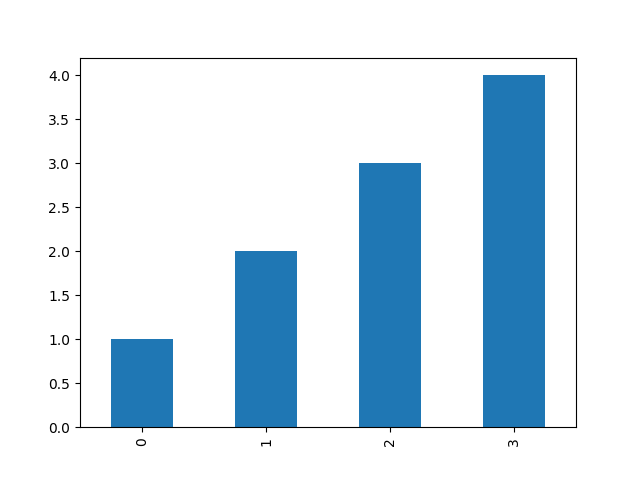
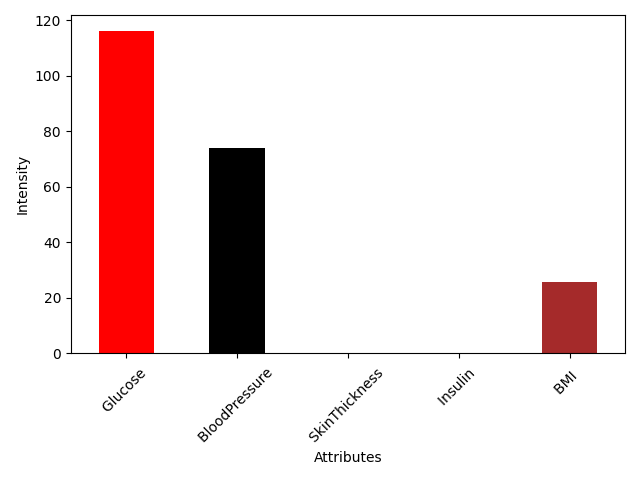
main file changes

diff --git a/index.html b/index.html
@@ -35,8 +35,9 @@
                   <a href="./index.html" class="bg-white-900 text-white rounded-md px-3 py-2.5 text-lg font-bold" aria-current="page">Home</a>
                   <a href="./analytics.html" class="text-white-300 hover:bg-blue-800 hover:text-white rounded-md px-3 py-3 text-base font-medium">Analytics</a>
                   <a href="./aboutus.html" class="text-white-300 hover:bg-blue-800 hover:text-white rounded-md px-3 py-3 text-base font-medium">About us</a>
-                  <a href="./createProfile.html" class="text-white-300 hover:bg-blue-800 hover:text-white rounded-md px-3 py-3 text-base font-medium">Create Profile</a>
+                  <a href="https://docs.google.com/forms/d/e/1FAIpQLSdu2ppS8vyD_ueisgk-h26C4a2ZyInQBfqRXao1qtKeF34e8w/viewform?embedded=true&edit2=2_ABaOnuezcXDPDOPxIItd2AS08jEZ_EKPt6oY8Dm-ne5AIHdeTYq_y1llSzhbkk8W9Q" class="text-white-300 hover:bg-blue-800 hover:text-white rounded-md px-3 py-3 text-base font-medium">Create Profile</a>
                   <a href="./Feedback.html" class="text-white-300 hover:bg-blue-800 hover:text-white rounded-md px-3 py-3 text-base font-medium">Feedback</a>
+                  <a href="profile.html" class="text-white-300 hover:bg-blue-800 hover:text-white rounded-md px-3 py-3 text-base font-medium">Profile</a>
                 </div>
               </div>
             </div>
@@ -45,8 +46,8 @@
       
               <!-- Profile dropdown -->
               <div class="relative mt-3" id="dropdown">
-                <div>
-                  <button type="button" class="relative flex rounded-full bg-black text-sm focus:outline-none focus:ring-2 focus:ring-white focus:ring-offset-2 focus:ring-offset-gray-800" onclick="click()" id="user-menu-button" aria-expanded="false" aria-haspopup="true">
+                <div class="btn" onclick="show()"> 
+                  <button type="button" class="relative flex rounded-full bg-black text-sm focus:outline-none focus:ring-2 focus:ring-white focus:ring-offset-2 focus:ring-offset-gray-800"  id="user-menu-button" aria-expanded="false" aria-haspopup="true">
                     <span class="absolute -inset-1.5"></span>
                     <span class="sr-only">Open user menu</span>
                     <i class="fa-solid fa-user p-3 font-semibold" style="color: #ffffff;"></i>
@@ -63,7 +64,7 @@
                     From: "transform opacity-100 scale-100"
                     To: "transform opacity-0 scale-95"
                 -->
-                <div class="absolute right-0 z-10 mt-2 w-48 origin-top-right rounded-md bg-white py-1 shadow-lg ring-1 ring-black ring-opacity-5 focus:outline-none hidden" role="menu" aria-orientation="vertical" onclick="click()" aria-labelledby="user-menu-button" tabindex="-1" id="ic-log">
+                <div class="absolute right-0 z-10 mt-2 w-48 origin-top-right rounded-md bg-white py-1 shadow-lg ring-1 ring-black ring-opacity-5 focus:outline-none hidden index-100" role="menu" aria-orientation="vertical"  aria-labelledby="user-menu-button" onclick="show()" tabindex="-1" id="ic-log">
                   <!-- Active: "bg-gray-100", Not Active: "" -->
                   <a href="#" class="block px-4 py-2 text-sm text-gray-700" role="menuitem" tabindex="-1" id="user-menu-item-0">Your Profile</a>
                   <a href="#" class="block px-4 py-2 text-sm text-gray-700" role="menuitem" tabindex="-1" id="user-menu-item-1">Settings</a>
@@ -85,6 +86,7 @@
           </div>
         </div>
     </nav>
+    <div id="main"><div id="cursor"></div></div>
     <div class="circle"><p class="circlepara"><span style="margin-left:8rem">"Empowering Health,</span><br><span>Ensuring Safety: Your Lifesaving Medical Data   </span><br><span style="margin-left:8rem">at Your Fingertips."</span></p></div>
     <div class="sec1 relative">
       <div class="flex min-h-full flex-col justify-center px-6 py-12 lg:px-8 signin">
@@ -142,6 +144,7 @@
         In emergency conditions, carrying the files, doing medical tests cost a lot of time, loss of money, and sometimes can compromise the health of the patient.
         <b style="color:green">Medikeeps</b> is the best solution to these problems. You can store all your medical history in just one click, and can save your and other’s lives in emergency situations.</p>
     </div>
+    <div id="logoname"><h1>MediKeeps</h1></div>
     <hr class="h-0.5 line absolute border-0 bg-black">
     <div class="footer"><!-- component -->
       <footer class="relative py-20 flex flex-col items-center justify-center overflow-hidden md:py-25">
@@ -294,8 +297,8 @@
       }
       --></div>
 </body>
-<script src="https://cdnjs.cloudflare.com/ajax/libs/gsap/3.12.5/ScrollTrigger.min.js" integrity="sha512-onMTRKJBKz8M1TnqqDuGBlowlH0ohFzMXYRNebz+yOcc5TQr/zAKsthzhuv0hiyUKEiQEQXEynnXCvNTOk50dg==" crossorigin="anonymous" referrerpolicy="no-referrer"></script>
 <script src="https://cdnjs.cloudflare.com/ajax/libs/gsap/3.12.5/gsap.min.js" integrity="sha512-7eHRwcbYkK4d9g/6tD/mhkf++eoTHwpNM9woBxtPUBWm67zeAfFC+HrdoE2GanKeocly/VxeLvIqwvCdk7qScg==" crossorigin="anonymous" referrerpolicy="no-referrer"></script>
-<script src="https://cdn.tailwindcss.com"></script>
+<script src="https://cdnjs.cloudflare.com/ajax/libs/gsap/3.12.5/ScrollTrigger.min.js" integrity="sha512-onMTRKJBKz8M1TnqqDuGBlowlH0ohFzMXYRNebz+yOcc5TQr/zAKsthzhuv0hiyUKEiQEQXEynnXCvNTOk50dg==" crossorigin="anonymous" referrerpolicy="no-referrer"></script>
 <script src="app.js"></script>
+  <script src="https://cdn.tailwindcss.com"></script>
 </html>

diff --git a/app.js b/app.js
@@ -1,11 +1,53 @@
-gsap.from("#sec_2 h1",{
+
+var cursor = document.querySelector("#cursor");
+var main = document.querySelector("body");
+const logo = document.querySelector(".btn");
+const dropdown = document.querySelector("#ic-log");
+
+
+gsap.from("nav",{
     opacity:0,
-    duration:1,
-    scrollTrigger:{
-        trigger:"#sec_2 h1",
-        scroller:"body",
-        start:"top 60%",
-        end:"bottom top",
-        markers:true,
-    }
+    duration:2
 });
+
+
+main.addEventListener("mousemove",function(dets){
+    gsap.to(cursor,{
+        x:dets.x,
+        y:dets.y,
+        ease:"back.out",
+        duration:1
+    })
+})
+
+gsap.to("#logoname h1",{
+    transform:"translateX(-55%)",
+    scrollTrigger:{
+        trigger:"#logoname",
+        scroller:"body",
+        start:"top 5%",
+        end:"top -100%",
+        scrub:2,
+        pin:true,
+    }
+})
+
+gsap.from(".circle",{
+    opacity:0,
+    y:20
+})
+
+gsap.from(".signin",{
+    opacity:0,
+    y:20
+})
+
+logo.addEventListener("onclick",()=>{
+    gsap.to(dropdown,{
+        opacity:"100"
+    })
+})
+
+function show(){
+    dropdown.style.overflow = "visible";
+};

diff --git a/analytics.html b/analytics.html
@@ -1,1 +1,1 @@
-<html><head><title>Data Display</title><style>h1{color:blue;position:relative;left:35rem;font-size:2rem;}p{font-size:2rem}body{background-color:#BBE2EC;overflow-x:hidden}</style></head><body><h1>Analytics</h1><p>Name: Brian Robinson            </p><img src=my_plot.png></img></body></html>
+<html><head><title>Data Display</title><style>h1{color:blue;position:relative;left:35rem;font-size:2rem;}p{font-size:1.5rem;margin-left:10rem;margin-top:6rem;border:2px solid black;background-color:white;width:20rem;padding-left:2rem;align-items:center;border-radius:1rem}body{background-color:#BBE2EC;overflow-x:hidden}img{margin-left:10rem;margin-top:3rem}div{position:fixed;height:5rem;width:100%;background-color:#BBE2EC}a{font-size:1.2rem;text-decoration:none;color:white;background-color:black;padding:0.35rem;margin-top:1rem;border-radius:1rem;}</style></head><body><div class=margin-left:5rem><a href=./index.html>Home</a></div><h1>Analytics</h1><p>Name: Mrs. Caroline Farrell     </p><img src=my_plot.png></img><h2 style=position:relative;left:15rem;top:2rem;>Keep Your Medical Data Secured with Medikeeps</h2></body></html>

diff --git a/profile.html b/profile.html
@@ -1,0 +1,1 @@
+<html><head><title>Data Display</title><style>h1{color:blue;position:relative;left:35rem;font-size:2rem;}p{padding:1rem;width:15rem;background-color:white;border-radius:1rem;margin-left:5rem;margin-top:3rem}body{background-color:#BBE2EC;overflow-x:hidden}div{padding:2rem;border-radius:1rem;background-color:#40A2E3;display:flex;width:60%;align-items:center;flex-direction:column;position:absolute;left:15%;top:10rem;position:absolute}img{position:absolute;height:6rem;width:6rem;background-color:transparent;border-radius:50%;}</style></head><body><h1>Profile</h1><div><img src=https://media.istockphoto.com/id/1337144146/vector/default-avatar-profile-icon-vector.jpg?s=612x612&w=0&k=20&c=BIbFwuv7FxTWvh5S3vB6bkT0Qv8Vn8N5Ffseq84ClGI= style=left:14rem;top:3.5rem;z-index:99></img><p>Name: ['Sahil Adit']</p> <p>Your Email: ['user@gmail.com']</p> <p>Username: gVeP7</p><p>Street Address: ['Pune']</p></div></body></html>

diff --git a/style.css b/style.css
@@ -113,6 +113,37 @@ footer{
     top:1rem;
     left:22rem;
 }
+#main{
+    height:100%;
+    width:100%;
+
+}
+#cursor{
+    height:20px;
+    width:20px;
+    background-color: white;
+    position: fixed;
+    border-radius: 50%;
+    z-index: 99;
+}
+#logoname{
+    height:55vw;
+    width:100%;
+    background-color: white;
+    position:relative;
+    top:23rem;
+    font-size:50rem;
+    display:flex;
+    justify-content: center;
+    align-items: center;
+}
+#logoname h1{
+    position: relative;
+    left:75rem;
+    top:-2rem;
+    font-weight: 600;
+    color:#40A2E3;
+}
 @media only screen and (max-width:768px){
     nav{
         margin-left:10%;

diff --git a/tempCodeRunnerFile.js b/tempCodeRunnerFile.js
@@ -1,0 +1,4 @@
+gsap.from("nav",{
+    opacity:0,
+    duration:2
+});

diff --git a/analytics.py b/analytics.py
@@ -4,16 +4,21 @@ import matplotlib.pyplot as plt
 
 
 
-df = pd.read_csv('diabetes.csv')
 
+df = pd.read_csv('diabetes.csv')
 row = df.columns
-col = df.iloc[[2],[1,2,3,4,5]]
-new_var = pd.Series(col.all)
+col = df.iloc[5,1:6]
+new_var = pd.Series(col.values.flatten())
+
 
 
 # s = pd.Series(col)
 fig, ax = plt.subplots()
-new_var.plot.bar()
+new_var.plot.bar(color=['red','black','yellow','green','brown'])
+plt.xlabel('Attributes') 
+plt.ylabel("Intensity")
+plt.xticks(range(len(new_var.index)), row[1:6], rotation=45)
+plt.tight_layout()
 fig.savefig('my_plot.png')
 
 print(new_var)
@@ -27,7 +32,7 @@ def read_element_from_csv(filename, row_index, col_index):
 
 if __name__ == "__main__":
     # Choose the element's position (row and column index)
-    row_index = 102  # Index of the row
+    row_index = 12  # Index of the row
     col_index = 0  # Index of the column
     
     # Read the element from the CSV file
@@ -35,10 +40,11 @@ if __name__ == "__main__":
     
     # Write HTML content to file 
     with open("analytics.html", "w") as f:
-        f.write("<html><head><title>Data Display</title><style>h1{color:blue;position:relative;left:35rem;font-size:2rem;}p{font-size:2rem}body{background-color:#BBE2EC;overflow-x:hidden}</style></head><body>")
+        f.write("<html><head><title>Data Display</title><style>h1{color:blue;position:relative;left:35rem;font-size:2rem;}p{font-size:1.5rem;margin-left:10rem;margin-top:6rem;border:2px solid black;background-color:white;width:20rem;padding-left:2rem;align-items:center;border-radius:1rem}body{background-color:#BBE2EC;overflow-x:hidden}img{margin-left:10rem;margin-top:3rem}div{position:fixed;height:5rem;width:100%;background-color:#BBE2EC}a{font-size:1.2rem;text-decoration:none;color:white;background-color:black;padding:0.35rem;margin-top:1rem;border-radius:1rem;}</style></head><body>")
+        f.write("<div class=margin-left:5rem><a href=./index.html>Home</a></div>")
         f.write("<h1>Analytics</h1>")
         f.write("<p>Name: {}</p>".format(element))
         f.write("<img src=""my_plot.png></img>")
+        f.write("<h2 style=position:relative;left:15rem;top:2rem;>Keep Your Medical Data Secured with Medikeeps</h2>")
         f.write("</body></html>")
-
 

diff --git a/profile_backend.py b/profile_backend.py
@@ -1,0 +1,27 @@
+import pandas as pd
+import ssl
+import random
+
+ssl._create_default_https_context = ssl._create_unverified_context
+sheet_id = '1h9qfd0N7EDcdhWPAAyv-ySKUEj86ye0_j0rjuHyG17k'
+
+df = pd.read_csv(f'https://docs.google.com/spreadsheets/d/{sheet_id}/export?format=csv')
+element = df.values[[-1],[0,3]]
+name = df.values[[-1],[1]]
+ls_name = df.values[[-1],[6]]
+full_name = name+' '+ls_name
+email = df.values[[-1],[2]]
+street_address = df.values[[-1],[5]]
+
+randomLowerLetter1 = chr(random.randint(ord('a'), ord('z')))
+randomLowerLetter2= chr(random.randint(ord('a'), ord('z')))
+randomUpperLetter1 = chr(random.randint(ord('A'), ord('Z')))
+randomUpperLetter2 = chr(random.randint(ord('A'), ord('Z')))
+username = randomLowerLetter1 + randomUpperLetter1 + randomLowerLetter2 +randomUpperLetter2 + str((random.randint(1,9)))
+
+with open('profile.html','w') as f:
+        f.write("<html><head><title>Data Display</title><style>h1{color:blue;position:relative;left:35rem;font-size:2rem;}p{padding:1rem;width:15rem;background-color:white;border-radius:1rem;margin-left:5rem;margin-top:3rem}body{background-color:#BBE2EC;overflow-x:hidden}div{padding:2rem;border-radius:1rem;background-color:#40A2E3;display:flex;width:60%;align-items:center;flex-direction:column;position:absolute;left:15%;top:10rem;position:absolute}img{position:absolute;height:6rem;width:6rem;background-color:transparent;border-radius:50%;}</style></head><body>")
+        f.write("<h1>Profile</h1>")
+        f.write("<div><img src=https://media.istockphoto.com/id/1337144146/vector/default-avatar-profile-icon-vector.jpg?s=612x612&w=0&k=20&c=BIbFwuv7FxTWvh5S3vB6bkT0Qv8Vn8N5Ffseq84ClGI= style=left:14rem;top:3.5rem;z-index:99></img><p>Name: {}</p> <p>Your Email: {}</p> <p>Username: {}</p><p>Street Address: {}</p></div>".format(full_name,email,username,street_address))
+        f.write("</body></html>")
+
